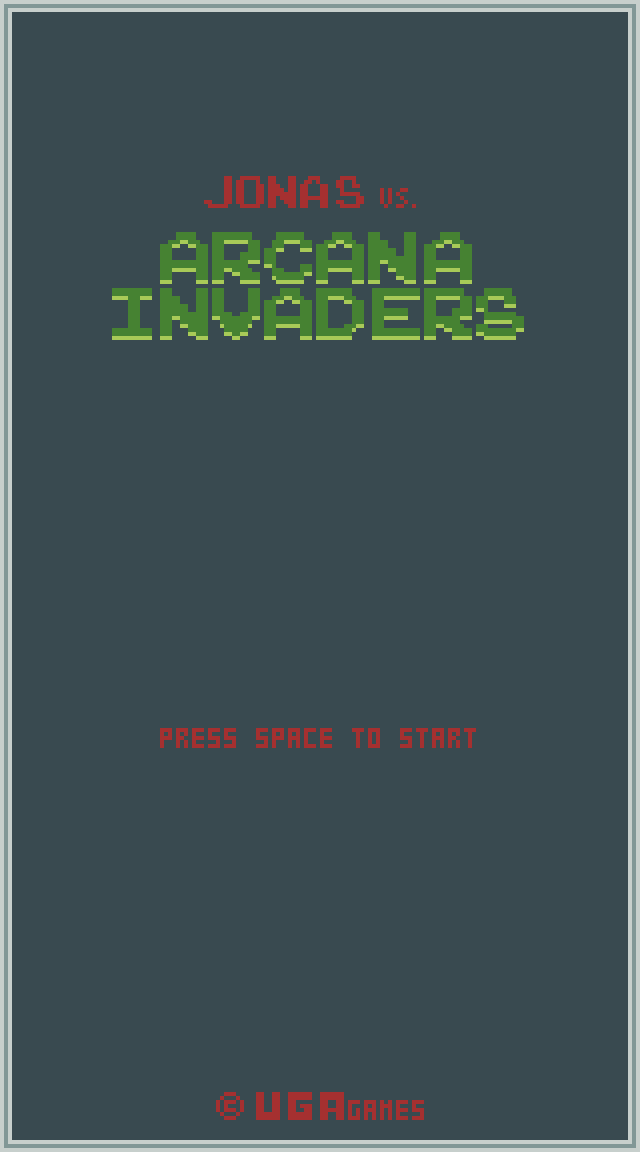
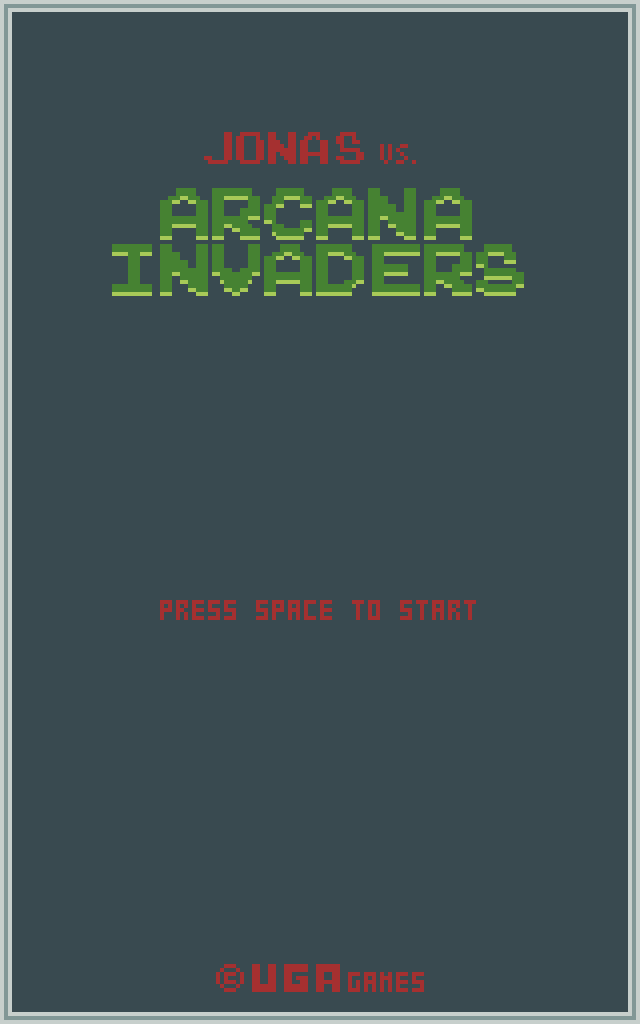
Game Over improvisado, rework de algumas artes para encaixar na nova resolução

diff --git a/html/src/com/uga/game/client/HtmlLauncher.java b/html/src/com/uga/game/client/HtmlLauncher.java
@@ -3,6 +3,7 @@ package com.uga.game.client;
 import com.badlogic.gdx.ApplicationListener;
 import com.badlogic.gdx.backends.gwt.GwtApplication;
 import com.badlogic.gdx.backends.gwt.GwtApplicationConfiguration;
+import com.uga.game.JonasVsArcanaInvaders;
 
 public class HtmlLauncher extends GwtApplication {
 
@@ -11,11 +12,11 @@ public class HtmlLauncher extends GwtApplication {
                 // Resizable application, uses available space in browser
                 return new GwtApplicationConfiguration(true);
                 // Fixed size application:
-                //return new GwtApplicationConfiguration(480, 320);
+                //return new GwtApplicationConfiguration(640, 1152);
         }
 
         @Override
         public ApplicationListener createApplicationListener () {
-                return new Game();
+                return new JonasVsArcanaInvaders();
         }
 }

diff --git a/core/src/com/uga/game/EnemyController.java b/core/src/com/uga/game/EnemyController.java
@@ -33,6 +33,7 @@ public class EnemyController {
             enemiesOnScreen.get(i).verifyShot(enemyProjectilesOnScreen);
             if(player.allyHitbox.overlaps(enemiesOnScreen.get(i).enemyHitbox)){
                 Gdx.app.log("#INFO", "Inimigo matou Player");
+                game.setScreen(new TitleScreen(game));
             }
             for (int j = 0; j < allyProjectilesOnScreen.size(); j++){
                 if(enemiesOnScreen.get(i).enemyHitbox.overlaps(allyProjectilesOnScreen.get(j).allyHitbox)) {

diff --git a/core/src/com/uga/game/ProjectileController.java b/core/src/com/uga/game/ProjectileController.java
@@ -17,6 +17,7 @@ public class ProjectileController {
             enemyProjectilesOnScreen.get(i).render(game.batch);
             if (player.allyHitbox.overlaps(enemyProjectilesOnScreen.get(i).enemyHitbox)){
                 Gdx.app.log("#INFO", "Inimigo matou Player");
+                game.setScreen(new TitleScreen(game));
                 enemyProjectilesOnScreen.remove(i);
             } else if (enemyProjectilesOnScreen.get(i).getPosition().y < -64){
                 enemyProjectilesOnScreen.remove(i);

diff --git a/core/src/com/uga/game/UI.java b/core/src/com/uga/game/UI.java
@@ -17,6 +17,6 @@ public class UI {
         playerScore = String.valueOf(player.getScore());
 
         batch.draw(texture,0,0);
-        font.draw(batch, playerScore, 20, 612);
+        font.draw(batch, playerScore, 20, 484);
     }
 }

diff --git a/desktop/src/com/uga/game/desktop/DesktopLauncher.java b/desktop/src/com/uga/game/desktop/DesktopLauncher.java
@@ -10,6 +10,6 @@ public class DesktopLauncher {
 		new LwjglApplication(new JonasVsArcanaInvaders(), config);
 		config.title = "Jonas vs Arcana Invaders";
 		config.width = 640;
-		config.height = 1152;
+		config.height = 1024;
 	}
 }
